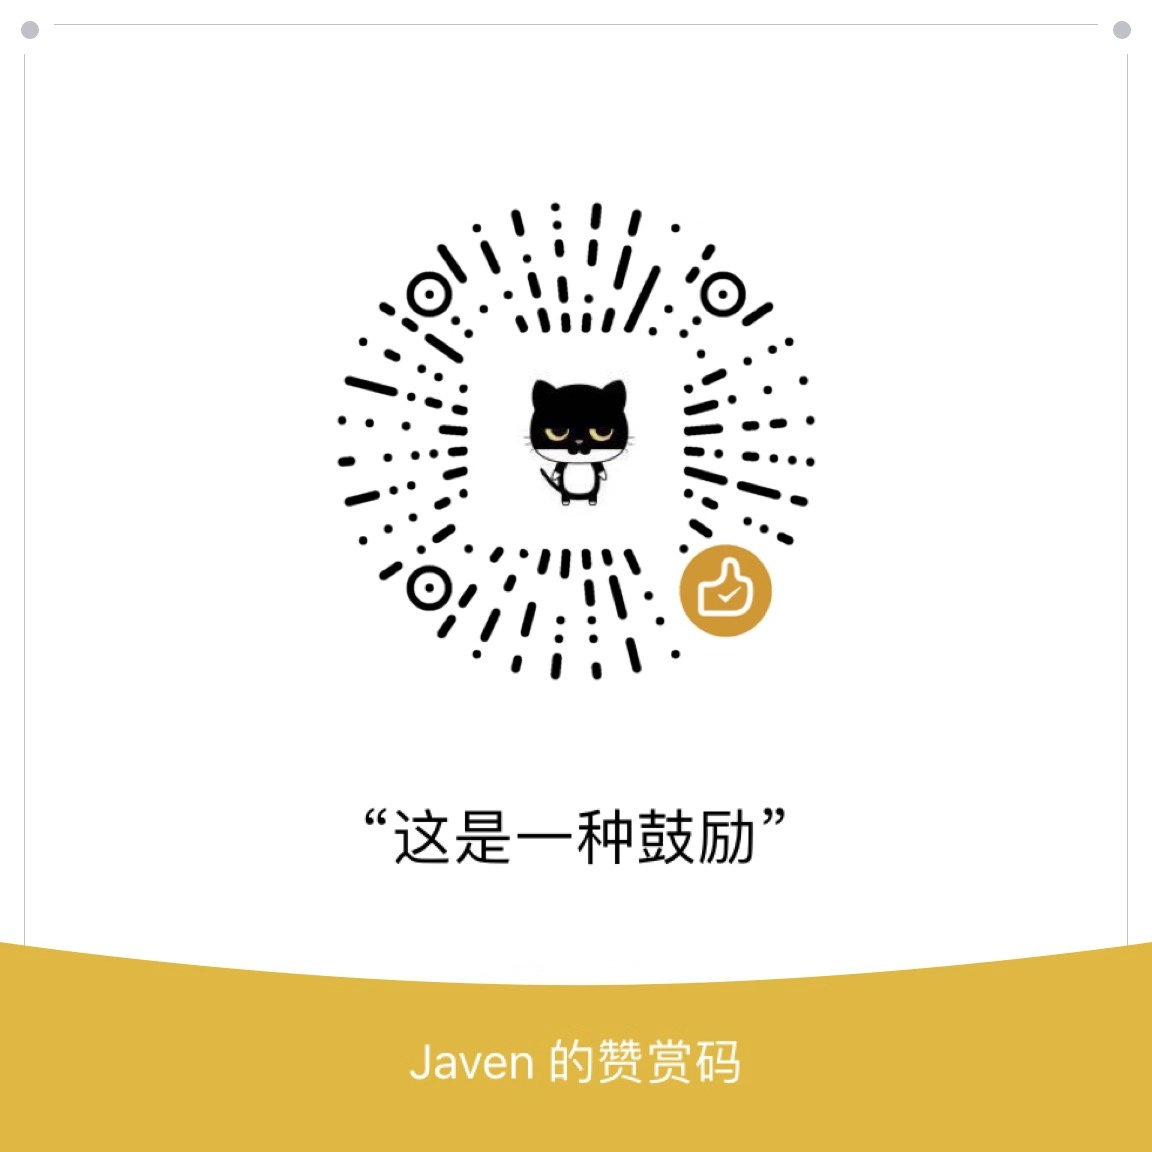
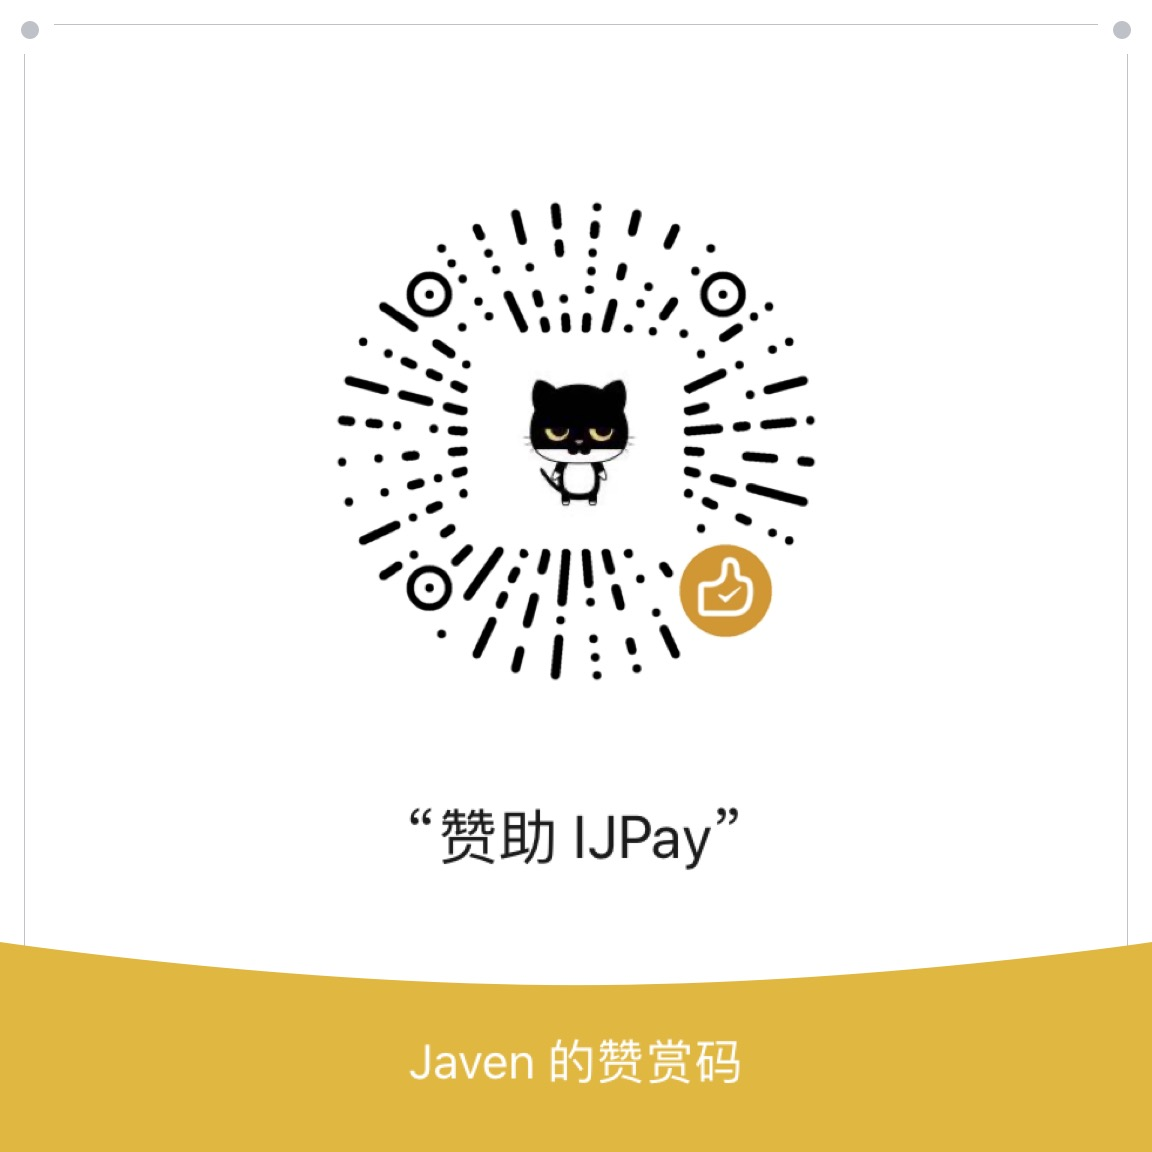
:memo: 编写文档

diff --git a/packages/docs/docs/.vuepress/config.js b/packages/docs/docs/.vuepress/config.js
@@ -12,9 +12,9 @@ module.exports = ctx => ( {
         //     description: 'IJPay 让支付触手可及'
         // }
     },
-    // markdown: {
-    //     lineNumbers: true,
-    // },
+    markdown: {
+        lineNumbers: true,
+    },
     head: [
         ['link', { rel: 'icon', href: '/logo.png' }],
         ['link', { rel: 'manifest', href: '/manifest.json' }],
@@ -137,6 +137,7 @@ function getGuideSidebar (groupA, groupB,groupC,groupD,groupE,groupF,groupG,grou
             children: [
                 'wxpay/',
                 'wxpay/external',
+                'wxpay/api-v3',
                 'wxpay/question',
             ]
         },

diff --git a/packages/docs/docs/guide/weixin/tnwx.md b/packages/docs/docs/guide/weixin/tnwx.md
@@ -5,65 +5,45 @@
 </p>
  <p align="center">
  <a href="https://www.npmjs.com/package/tnwx" target="_blank"><img src="https://img.shields.io/npm/l/tnwx.svg?style=flat-square" alt="Package License" /></a>
- <a href="https://www.npmjs.com/package/tnwx" target="_blank"><img src="https://img.shields.io/npm/v/tnwx.svg?style=flat-square" alt="NPM Version" /></a>
- <a href="https://www.npmjs.com/package/tnwx" target="_blank"><img src="https://img.shields.io/npm/dt/tnwx.svg?style=flat-square" alt="NPM Downloads" /></a>
- <a href="https://github.com/Javen205/donate" target="_blank"><img src="https://img.shields.io/badge/Donate-WeChat-%23ff3f59.svg?style=flat-square" alt="Donate"/></a>
+<a href="https://www.npmjs.com/package/tnwx" target="_blank"><img src="https://img.shields.io/npm/v/tnwx.svg?style=flat-square" alt="NPM Version" /></a>
+<a href="https://www.npmjs.com/package/tnwx" target="_blank"><img src="https://img.shields.io/npm/dt/tnwx.svg?style=flat-square" alt="NPM Downloads" /></a>
+<a href="https://github.com/Javen205/donate" target="_blank"><img src="https://img.shields.io/badge/Donate-WeChat-%23ff3f59.svg?style=flat-square" alt="Donate"/></a>
 </p>
 
 ## 简介
 
-**TNWX: TypeScript + Node.js + WeiXin 微信系开发脚手架，支持微信公众号、微信支付、微信小游戏(微信小程序、微信企业号敬请期待)。同时也支持 Http 模块扩展，最最最重要的是能快速的集成至任何 Node.js 框架(Express、Nest、Egg、Koa 等)**
+**TNWX: TypeScript + Node.js + WeiXin 微信系开发脚手架，支持微信公众号、微信支付、微信小游戏、微信小程序、企业号/企业微信、企业微信开放平台。最最最重要的是能快速的集成至任何 Node.js 框架(Express、Nest、Egg、Koa 等)**
 
-### 活动
+## 简易指南
 
- <p align="left">
- 	  <a left="100" target="_blank" href="https://promotion.aliyun.com/ntms/act/qwbk.html?userCode=b1hkzv2x">
-        <img src="https://gitee.com/javen205/TNWX/raw/master/assets/img/aliYun.jpg" height="100" alt="">
-    </a>
-    <a left="100" target="_blank" href="https://cloud.tencent.com/act/cps/redirect?redirect=1048&cps_key=a21676d22e4b11a883893d54e158c1d3&from=console">
-        <img src="https://gitee.com/javen205/TNWX/raw/master/assets/img/tencent.jpg" height="100" alt="">
-    </a>
-    <a left="100" target="_blank" href="https://activity.huaweicloud.com/discount_area_v5/index.html?&fromuser=aHcxMTc2NTU3MQ==&utm_source=aHcxMTc2NTU3MQ==&utm_medium=cps&utm_campaign=201905">
-        <img src="https://gitee.com/javen205/TNWX/raw/master/assets/img/huawei.jpg" height="100" alt="">
-    </a>
- </p>
+### 尝鲜版
 
-## TNWX 博客
+```bash
+$ git clone https://gitee.com/javen205/TNWX.git
+$ cd TNWX
+$ yarn bootstrap
+$ yarn tsc
+```
 
-- [TNWX-开启公众号开发者模式](https://my.oschina.net/zyw205/blog/3038343)
-- [TNWX-微信公众号各种消息交互](https://my.oschina.net/zyw205/blog/3043428)
-- [TNWX-获取公众号的 access_token](https://my.oschina.net/zyw205/blog/3044608)
-- [TNWX-微信公众号发送模板消息](https://my.oschina.net/zyw205/blog/3044716)
-- [TNWX-微信公众号自定义菜单](https://my.oschina.net/zyw205/blog/3045638)
-- [TNWX-微信公众号中如何使用 JSSDK](https://my.oschina.net/zyw205/blog/3046798)
-- [TNWX-授权获取用户信息](https://my.oschina.net/zyw205/blog/3093807)
+### 运行示例
 
-[【更多博客尽在开源中国】](https://www.oschina.net/p/TNWX)
+```bash
+$ cd sample/express && yarn
+$ yarn build
+$ yarn dev
+```
 
-## 开发进度
+### 稳定版
 
-- [x] 多公众号支持
-- [x] 各种消息交互
-- [x] 自定义菜单
-- [x] 模板消息
-- [x] 客服消息
-- [x] 用户管理
-- [x] 生带参数的二维码
-- [x] 长连接转短连接
-- [x] 微信网页授权
-- [x] 一次性订阅消息
-- [x] 素材管理
-- [x] 群发消息
-- [x] 数据统计
-- [x] 微信卡券
-- [x] 微信门店
-- [x] 微信摇一摇
-- [x] 微信支付
-- [ ] 微信连 WiFi
-- [ ] 微信扫一扫
-- [ ] 微信发票
-- [ ] 微信设备功能
-- [ ] ....
+```bash
+$ mkdir TNWX && cd TNWX
+$ yarn init -y
+$ yarn add tnwx
+```
+
+## 文档
+
+[TNWX 微信系开发脚手架文档](https://javen205.gitee.io/tnwx)
 
 ## 交流群
 

diff --git a/packages/docs/docs/guide/wxpay/api-v3.md b/packages/docs/docs/guide/wxpay/api-v3.md
@@ -1,0 +1,88 @@
+# 微信支付API v3
+
+相较于的之前微信支付API，主要区别是：
+
+- 遵循统一的Restful的设计风格
+- 使用JSON作为数据交互的格式，不再使用XML
+- 使用基于非对称密钥的SHA256-RSA的数字签名算法，不再使用MD5或HMAC-SHA256
+- 不再要求HTTPS客户端证书
+- 使用AES-256-GCM，对回调中的关键信息进行加密保护
+
+更多介绍情况官方文档 [WeChatPay-API-v3](https://wechatpay-api.gitbook.io/wechatpay-api-v3/)
+
+## 获取证书序列号
+
+```java
+X509Certificate certificate = PayKit.getCertificate(FileUtil.getInputStream("apiclient_cert.pem 证书路径"));
+String serialNo  = certificate.getSerialNumber().toString(16).toUpperCase();
+```            
+
+:::tip 如何验证序列号
+
+- openssl x509 -in apiclient_cert.pem -noout -serial
+- 使用证书解析工具 [https://myssl.com/cert_decode.html](https://myssl.com/cert_decode.html)
+:::
+
+## 调用 v3 接口
+
+获取平台证书列表为例
+
+```java 
+String keyPath = "/Users/Javen/cert/apiclient_key.pem";// 私钥证书
+String mchId = "商户号";
+String serialNo = "公钥证书序列号";
+String body = ""; // 请求报文主体,没有查询参数。  
+
+try {
+    String result = WxPayApi.v3Execution(RequestMethod.GET, WxDomain.CHINA.toString(), WxApiType.GET_CERTIFICATES.toString(), mchId, serialNo, keyPath, body);
+    System.out.println(result);
+} catch (Exception e) {
+    e.printStackTrace();
+}
+``` 
+
+返回数据格式 
+
+```json
+{
+  "data": [
+    {
+      "effective_time": "XXX",
+      "encrypt_certificate": {
+        "algorithm": "AEAD_AES_256_GCM",
+        "associated_data": "certificate",
+        "ciphertext": "XXX",
+        "nonce": "XXX"
+      },
+      "expire_time": "XXX",
+      "serial_no": "XXX"
+    }
+  ]
+}
+```    
+
+## 证书和回调报文解密
+
+证书报文解密为例
+
+```java  
+String associatedData = "";
+String nonce = "";
+String ciphertext = "";           
+String saveCertPath = "/Users/Javen/cert/platform_cert.pem";
+
+AesUtil aesUtil = new AesUtil(apiKey3.getBytes(StandardCharsets.UTF_8));
+// 平台证书密文解密
+String publicKey = aesUtil.decryptToString(
+        associatedData.getBytes(StandardCharsets.UTF_8),
+        nonce.getBytes(StandardCharsets.UTF_8),
+        ciphertext
+);
+System.out.println("平台证书公钥明文：" + publicKey);
+// 保存证书
+FileWriter writer = new FileWriter(saveCertPath);
+writer.write(publicKey);
+// 获取平台证书序列号
+X509Certificate certificate = PayKit.getCertificate(new ByteArrayInputStream(publicKey.getBytes()));
+System.out.println(certificate.getSerialNumber().toString(16).toUpperCase());
+```

diff --git a/packages/docs/docs/guide/donate/README.md b/packages/docs/docs/guide/donate/README.md
@@ -1,17 +1,19 @@
 # 加入 VIP
 
-IJPay 一直以简洁至上、开箱即用为核心，提供的示例 (IJPay-Demo) 简单修改配置即可使用。
+IJPay 一直以简洁至上、开箱即用为核心，提供的示例简单修改配置即可使用。
+
 但由于开发环境不同或多或少会出现一些疑难问题，遇到问题不要慌你可以提 [issues](https://gitee.com/javen205/IJPay/issues)
-会统一时间安排回复，如果你觉得响应慢或者交流不方便。那么请考虑一下 IJPay 提供的 VIP 服务。 
+会统一时间安排回复。
 
 如果您的项目开发周期短不想耗更多的时间与精力在踩坑与填坑的路上，那么请考虑一下 IJPay 提供的 VIP 服务。
 
-亦或者没有研发团队，实在为技术感到头疼，那么请考虑一下 IJPay 提供的 VIP 服务。
+亦或者研发团队没有聚合支付开发经验，实在为技术感到头疼，那么请考虑一下 IJPay 提供的 VIP 服务。
 
 同时也鼓励用户与 IJPay 「亲密接触」。
 
-一对一在线技术支持： 限时优惠 **¥ 299** 元。**付款时请备注联系方式，或者[加群:723992875](http://shang.qq.com/wpa/qunwpa?idkey=44c2b0331f1bdca6c9d404e863edd83973fa97224b79778db79505fc592f00bc)联系群主**
+一对一在线技术支持： 限时优惠 **¥ 299** 元。**赞助时请备注联系方式，或者 [加群:723992875](http://shang.qq.com/wpa/qunwpa?idkey=44c2b0331f1bdca6c9d404e863edd83973fa97224b79778db79505fc592f00bc)联系群主**
 
+**如果付款出现金额限制，请点击赞赏码下方「前往赞助」选择其他赞助方式**
 
  # 请作者喝一杯咖啡
  

diff --git a/packages/docs/docs/README.md b/packages/docs/docs/README.md
@@ -9,7 +9,7 @@ features:
 - title: 开箱即用
   details: 不依赖任何第三方 MVC 框架，仅仅作为工具使用，简单快速完成支付模块的开发，可轻松嵌入到任何系统里。
 - title: 渠道丰富
-  details: 支持微信支付、QQ钱包支付、支付宝支付、银联支付、京东支付等。
+  details: 支持微信支付(支持 Api v3)、QQ钱包支付、支付宝支付、银联支付、京东支付等。
 footer: Apache License 2.0 | Copyright © 2019-present Javen
 ---
 
@@ -78,7 +78,7 @@ export default {
     this.$notify({
       offset: 50,
       title: 'IJPay VIP 服务',
-      message: 'IJPay VIP 服务可提供一对一在线答疑，加入 VIP 为您节省更多时间去陪恋人、家人以及朋友 :) 交流群：723992875',
+      message: 'VIP 服务可提供一对一在线答疑，加入 VIP 为您节省更多时间去陪恋人、家人以及朋友 :) 交流群：723992875',
       type: 'success',
       showClose: true,
       duration: 0,
@@ -91,7 +91,7 @@ export default {
     this.$notify({
       offset: 200,
       title: 'TNWX 微信系开发脚手架',
-      message: '同时支持微信公众号、微信小程序、微信企业号、微信支付、微信小游戏。可接入到任何 Node.js 框架(Express、Nest、Egg、Koa 等)',
+      message: '同时支持微信公众号、微信小程序、企业微信、企业微信开放平台、微信支付、微信小游戏。可接入到任何 Node.js 框架(Express、Nest、Egg、Koa 等)',
       type: 'success',
       showClose: true,
       duration: 0,
